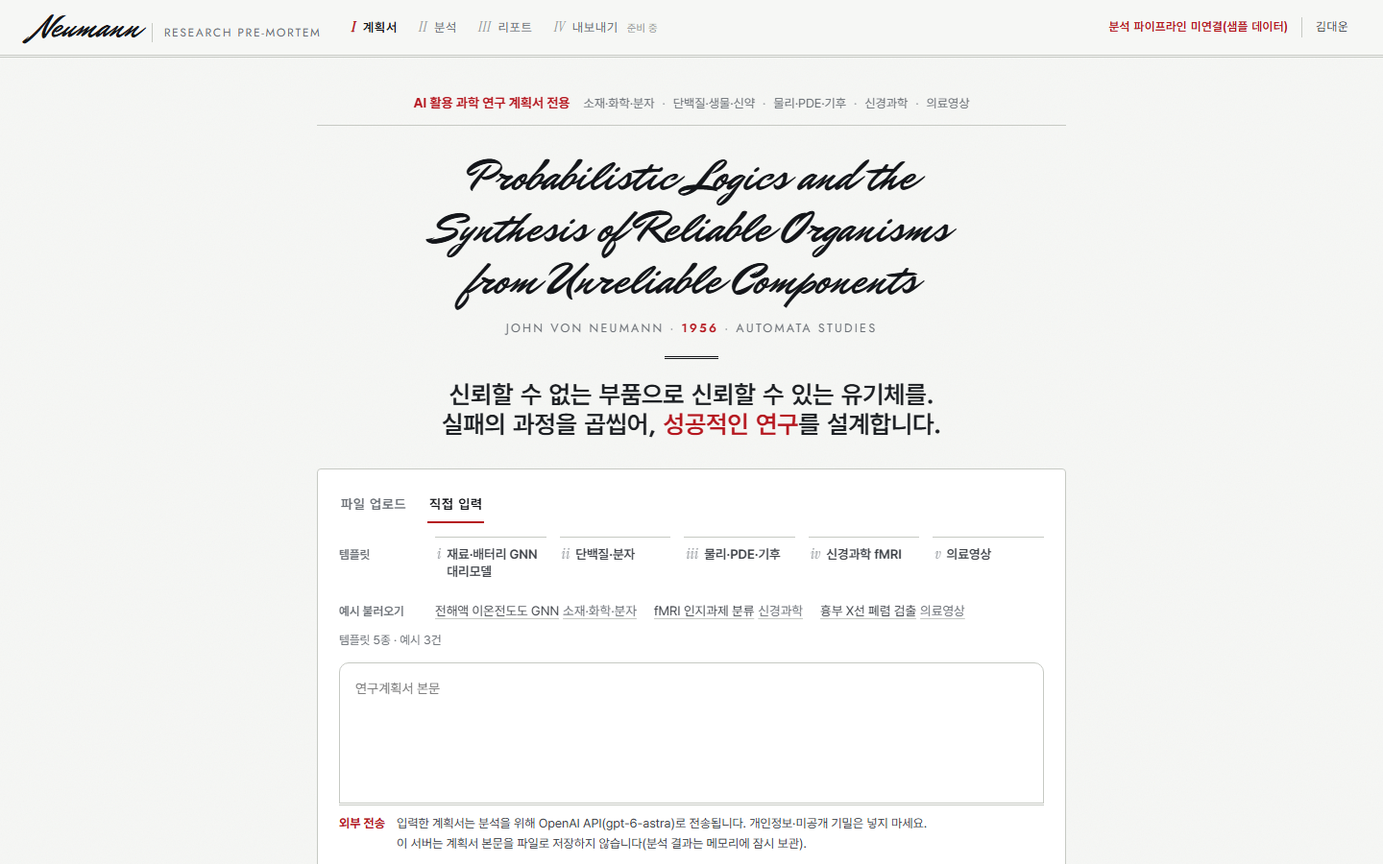
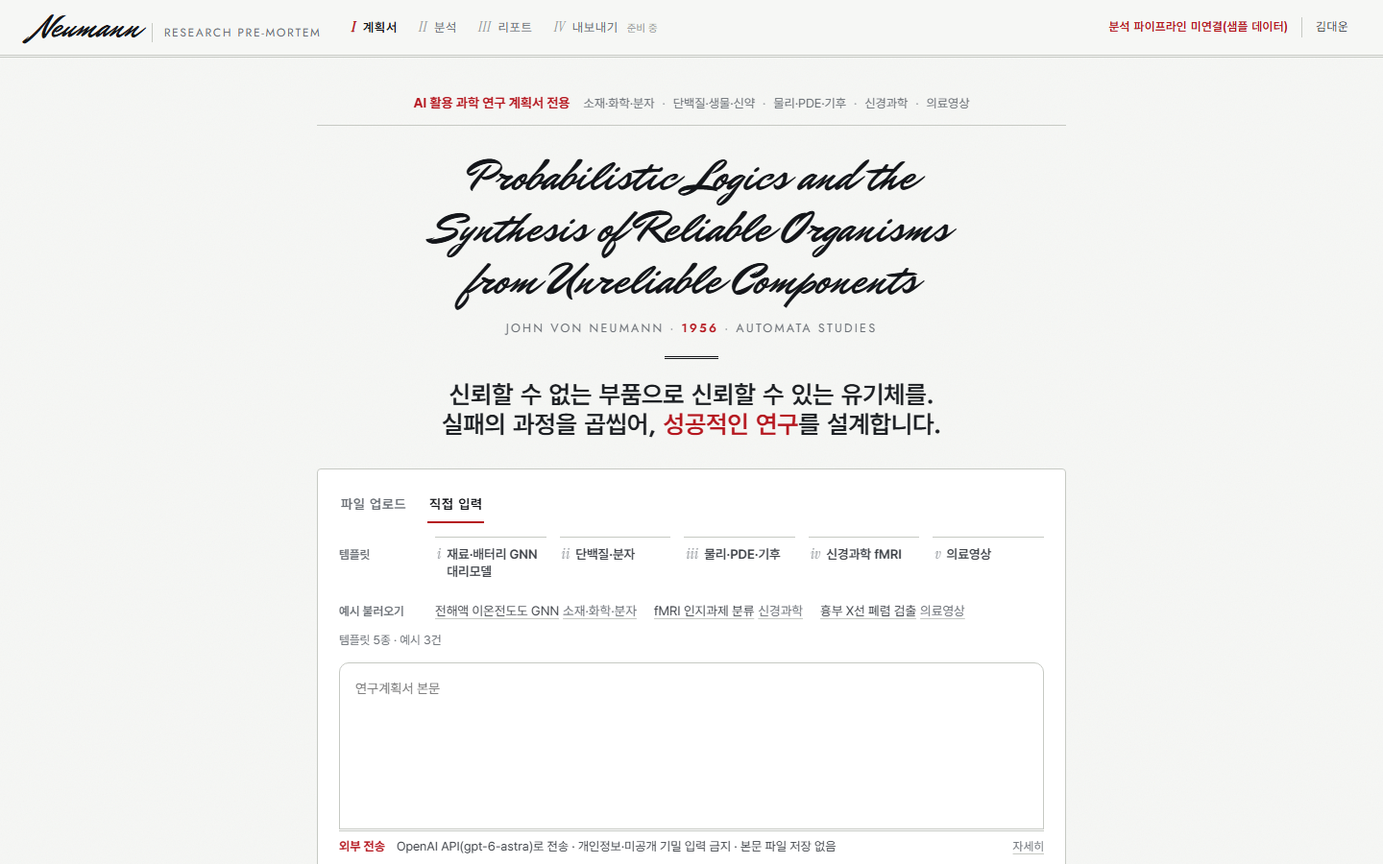
[E4-S06] 후속: 저장 문장 축약(괄호 삭제), E4-L2c 검사는 본문 미저장만, 고지를 한 줄 요약+펼치기로(입력칸 가림 64→37px)
- 저장 문장: "이 서버는 계획서 본문을 파일로 저장하지 않습니다." (메모리 보관 괄호 삭제)
- test_result_file_cache_strips_plan_body: serving.py 결과 파일 캐시가 _strip_plan_body를 거치는지만 확인(E4-L2c 실제 파일로 통과)
- 고지 <details>: 라벨 + 한 줄 요약(세 사실), 펼치면 전문 두 줄. textContent만, 색 토큰
- Playwright 8131: 첫 화면 안(접힘·펼침·업로드), 버튼과 18px, 콘솔 오류 0, 외부 요청 0. 스크린샷 notice/notice_open

verify 통과
builder: claude-opus-5.5

Changed region(s): [[0.25, 0.9333, 0.6875, 0.9956], [0.7188, 0.9644, 0.75, 0.9956]]

diff --git a/src/neumann/webui/index.html b/src/neumann/webui/index.html
@@ -385,10 +385,17 @@
   .fit .by { display: block; color: var(--muted); font-size: 12.5px; margin-top: 4px; }
   .fit.ok { border-top-color: var(--green-t); border-bottom-color: var(--green-t); color: var(--green); }
   .fit.ok b { color: var(--green); }
-  /* ===== E4-S06 입력 전송 고지(SEC-1 S-06). 자연 위치는 실행 버튼 바로 위, 첫 화면에서는 화면 아래에 붙어 보인다(sticky) ===== */
-  .sendnote { position: sticky; bottom: 0; z-index: 2; display: grid; grid-template-columns: auto minmax(0, 1fr); gap: 0 12px; align-items: baseline; margin-top: 16px; padding: 9px 0 10px 0; border-top: 3px double var(--line2); background: var(--card); font-size: 13px; line-height: 1.6; color: var(--text2); }
-  .sendnote b { grid-row: 1 / span 2; font-family: var(--sans); font-weight: 700; color: var(--red); }
-  .sendnote .snl { grid-column: 2; }
+  /* ===== E4-S06 입력 전송 고지(SEC-1 S-06). 자연 위치는 실행 버튼 바로 위, 첫 화면에서는 화면 아래에 붙어 보인다(sticky).
+     입력칸을 덜 가리게 접힌 상태는 한 줄 요약, 펼치면 전문 두 줄 ===== */
+  .sendnote { position: sticky; bottom: 0; z-index: 2; margin-top: 16px; padding: 6px 0 7px 0; border-top: 3px double var(--line2); background: var(--card); font-size: 13px; line-height: 1.6; color: var(--text2); }
+  .sendnote summary { display: flex; align-items: baseline; gap: 12px; cursor: pointer; list-style: none; }
+  .sendnote summary::-webkit-details-marker { display: none; }
+  .sendnote summary b { flex-shrink: 0; font-family: var(--sans); font-weight: 700; color: var(--red); }
+  .sendnote summary .sum { flex: 1; min-width: 0; }
+  .sendnote summary .more { flex-shrink: 0; font-size: 12.5px; color: var(--muted); text-decoration: underline; text-decoration-color: var(--line2); text-underline-offset: 3px; }
+  .sendnote summary:hover .more { color: var(--ink); text-decoration-color: var(--ink); }
+  .sendnote .snl { display: block; }
+  .sendnote .snl:first-of-type { margin-top: 4px; }
 </style>
 </head>
 <body data-view="boot">
@@ -455,7 +462,7 @@
       '<div id="tplArea">' + tplInner() + '</div>' + area +
       (S.inErr ? '<div class="inerr" id="inErr">' + esc(S.inErr) + '</div>' : '') +
       '<div class="fit' + (FIT && FIT.fit === true ? ' ok' : '') + '" id="fitBox" role="status"' + (FIT ? '' : ' hidden') + '>' + fitInner() + '</div>' +
-      '<div class="sendnote" id="sendNote" role="note"></div>' +
+      '<details class="sendnote" id="sendNote"></details>' +
       '<div style="display:flex; align-items:center; justify-content:space-between; margin-top:18px; gap:14px; flex-wrap:wrap;"><span class="sm muted">최종 판단은 연구자에게</span><button class="btn dark lg" id="btnStart" type="button"' + (S.text.trim() ? '' : ' disabled') + '>Pre-mortem 실행 →</button></div></div></div>';
   }
 
@@ -525,18 +532,28 @@
   }
   function showFitness(f) { FIT = normFit(f); var b = $('fitBox'); if (b) { b.innerHTML = fitInner(); b.hidden = !FIT; b.classList.toggle('ok', !!(FIT && FIT.fit === true)); } return FIT; }
   window.NeumannInput = { showFitness: showFitness, clearFitness: function () { return showFitness(null); }, reloadTemplates: loadTemplates };
-  /* 전송 고지(E4-S06, SEC-1 S-06). 직접 입력·파일 업로드 공통. 글은 textContent로만 넣는다. 확인할 수 없는 약속(학습 미사용 등)은 쓰지 않는다 */
+  /* 전송 고지(E4-S06, SEC-1 S-06). 직접 입력·파일 업로드 공통. 글은 textContent로만 넣는다. 확인할 수 없는 약속(학습 미사용 등)은 쓰지 않는다.
+     접힌 상태 = 라벨 + 한 줄 요약(세 사실 모두), 펼치면 전문 두 줄 */
   var SEND_NOTE = {
     label: '외부 전송',
+    summary: 'OpenAI API(gpt-6-astra)로 전송 · 개인정보·미공개 기밀 입력 금지 · 본문 파일 저장 없음',
     lines: ['입력한 계획서는 분석을 위해 OpenAI API(gpt-6-astra)로 전송됩니다. 개인정보·미공개 기밀은 넣지 마세요.',
-            '이 서버는 계획서 본문을 파일로 저장하지 않습니다(분석 결과는 메모리에 잠시 보관).']
+            '이 서버는 계획서 본문을 파일로 저장하지 않습니다.'],
+    more: ['자세히', '접기'],
+    open: false
   };
   function paintSendNote() {
     var box = $('sendNote'); if (!box) return;
     while (box.firstChild) box.removeChild(box.firstChild);
     box.setAttribute('aria-label', SEND_NOTE.label);
-    var b =document.createElement('b'); b.textContent = SEND_NOTE.label; box.appendChild(b);
+    var sm = document.createElement('summary');
+    var b = document.createElement('b'); b.textContent = SEND_NOTE.label; sm.appendChild(b);
+    var su = document.createElement('span'); su.className = 'sum'; su.textContent = SEND_NOTE.summary; sm.appendChild(su);
+    var mo = document.createElement('span'); mo.className = 'more'; mo.textContent = SEND_NOTE.more[SEND_NOTE.open ? 1 : 0]; sm.appendChild(mo);
+    box.appendChild(sm);
     SEND_NOTE.lines.forEach(function (t) { var s = document.createElement('span'); s.className = 'snl'; s.textContent = t; box.appendChild(s); });
+    box.open = SEND_NOTE.open;
+    box.addEventListener('toggle', function () { SEND_NOTE.open = box.open; mo.textContent = SEND_NOTE.more[box.open ? 1 : 0]; });
   }
   function readFile(file) {
     S.inErr = '';

diff --git a/tests/e4/test_notice.py b/tests/e4/test_notice.py
@@ -1,10 +1,11 @@
 """E4-S06 입력 화면 전송 고지(SEC-1 S-06) 정적 검사.
 
 index.html을 글자로 읽어 확인한다(브라우저 없이 기본 pytest에서 돈다).
-- 고지 문구 두 줄이 글자 그대로 있고, 확인할 수 없는 약속(학습 미사용 등)은 없다.
+- 고지 문구(라벨·한 줄 요약·전문 두 줄)가 글자 그대로 있고, 확인할 수 없는 약속(학습 미사용 등)은 없다.
 - 고지 자리(#sendNote)가 입력 카드(#inCard) 안, 실행 버튼(#btnStart) 바로 앞에 있고, 모드별 입력 영역(area) 밖이라
   직접 입력·파일 업로드 두 모드에 같이 나온다.
 - 고지 글은 textContent로만 들어간다(innerHTML·문자열 이어 붙이기 없음). 색은 토큰, 외부 요청 없음.
+- (조건부) 결과를 파일로 캐시하는 서빙 층이 있으면, 그 저장본에서 본문을 떼는지 확인한다("본문 파일 저장 없음"의 근거).
 화면에서 실제로 보이는지(첫 화면 viewport 안)는 ``test_notice_ui.py``(Playwright)가 잰다.
 """
 
@@ -20,12 +21,12 @@ HTML_PATH = ROOT / "src" / "neumann" / "webui" / "index.html"
 SERVING = ROOT / "src" / "neumann" / "api" / "serving.py"
 
 SEND_LINE = "입력한 계획서는 분석을 위해 OpenAI API(gpt-6-astra)로 전송됩니다. 개인정보·미공개 기밀은 넣지 마세요."
-STORE_LINE = "이 서버는 계획서 본문을 파일로 저장하지 않습니다(분석 결과는 메모리에 잠시 보관)."
+STORE_LINE = "이 서버는 계획서 본문을 파일로 저장하지 않습니다."
+SUMMARY = "OpenAI API(gpt-6-astra)로 전송 · 개인정보·미공개 기밀 입력 금지 · 본문 파일 저장 없음"
 LABEL = "외부 전송"
-MEMORY_ONLY = "(분석 결과는 메모리에 잠시 보관)"  # 결과 디스크 캐시가 없을 때만 사실
-# 우리가 직접 확인할 수 없는 약속. 고지에 쓰지 않는다.
+# 우리가 직접 확인할 수 없는 약속, 또는 서빙 층 구현에 따라 거짓이 되는 보관 설명. 고지에 쓰지 않는다.
 UNVERIFIABLE = ("학습에 쓰지", "학습에 사용하지", "학습하지 않", "모델 학습", "학습 미사용", "학습에 이용",
-                "즉시 삭제", "영구 삭제", "암호화", "제3자", "안전하게 보호")
+                "즉시 삭제", "영구 삭제", "암호화", "제3자", "안전하게 보호", "메모리에 잠시 보관", "보관")
 
 
 @pytest.fixture(scope="module")
@@ -53,19 +54,21 @@ def test_notice_text_exact(html: str) -> None:
     block = _send_note_block(html)
     assert f"'{SEND_LINE}'" in block
     assert f"'{STORE_LINE}'" in block
+    assert f"summary: '{SUMMARY}'" in block
     assert f"label: '{LABEL}'" in block
     # 고지 글은 SEND_NOTE 한 곳에만 있다(다른 곳에서 HTML 문자열로 다시 쓰지 않음)
-    assert html.count(SEND_LINE) == 1
-    assert html.count(STORE_LINE) == 1
+    for t in (SEND_LINE, STORE_LINE, SUMMARY):
+        assert html.count(t) == 1, t
 
 
 def test_notice_mentions_facts_only(html: str) -> None:
     block = _send_note_block(html)
     for w in UNVERIFIABLE:
-        assert w not in block, f"확인할 수 없는 문구: {w}"
-    # 전송 대상·모델·금지 대상을 모두 밝힌다
-    for w in ("OpenAI API", "gpt-6-astra", "전송", "개인정보", "미공개 기밀", "파일로 저장하지 않습니다"):
-        assert w in block, f"빠진 요소: {w}"
+        assert w not in block, f"확인할 수 없거나 구현 따라 거짓이 되는 문구: {w}"
+    # 전문과 한 줄 요약이 같은 세 사실(전송 대상·모델, 입력 금지 대상, 본문 파일 미저장)을 모두 밝힌다
+    for w in ("OpenAI API", "gpt-6-astra", "전송", "개인정보", "미공개 기밀", "본문"):
+        assert w in SEND_LINE + STORE_LINE and w in SUMMARY, f"빠진 요소: {w}"
+    assert "파일로 저장하지 않습니다" in STORE_LINE and "파일 저장 없음" in SUMMARY
 
 
 def test_notice_inside_input_card_before_run_button(html: str) -> None:
@@ -86,11 +89,11 @@ def test_notice_inside_input_card_before_run_button(html: str) -> None:
 def test_notice_painted_with_textcontent(html: str) -> None:
     fn = _func(html, "paintSendNote")
     assert "innerHTML" not in fn and "insertAdjacentHTML" not in fn and "outerHTML" not in fn
-    assert "textContent = SEND_NOTE.label" in fn
-    assert "textContent = t" in fn
-    assert "SEND_NOTE.lines.forEach" in fn
-    # 자리 표시 div는 빈 채로 문자열에 들어가고, 글은 렌더 직후 칠한다
-    assert '<div class="sendnote" id="sendNote" role="note"></div>' in html
+    for want in ("textContent = SEND_NOTE.label", "textContent = SEND_NOTE.summary", "textContent = t",
+                 "SEND_NOTE.lines.forEach", "createElement('summary')"):
+        assert want in fn, want
+    # 자리 표시는 빈 채로 문자열에 들어가고, 글은 렌더 직후 칠한다
+    assert '<details class="sendnote" id="sendNote"></details>' in html
     render = _func(html, "render")
     assert "app.innerHTML = renderInput(); paintSendNote();" in render
     # SEND_NOTE가 HTML 문자열에 이어 붙지 않는다
@@ -100,7 +103,7 @@ def test_notice_painted_with_textcontent(html: str) -> None:
 
 def test_notice_style_tokens_and_sticky(html: str) -> None:
     rules = re.findall(r"^\s*\.sendnote[^{]*\{([^}]*)\}", html, re.M)
-    assert len(rules) >= 3
+    assert len(rules) >= 5
     css = " ".join(rules)
     assert not re.search(r"#[0-9a-fA-F]{3,8}\b", css), "색은 :root 토큰만"
     assert "position: sticky" in css and "bottom: 0" in css
@@ -116,19 +119,16 @@ def test_no_external_requests_in_page(html: str) -> None:
     assert not re.search(r"fetch\(\s*['\"](https?:)?//", html)
 
 
-def test_store_line_matches_result_cache() -> None:
-    """결과를 디스크에 캐시하는 서빙 층(E4-L2c)이 들어오면 '메모리에 잠시 보관'은 사실이 아니게 된다.
+def test_result_file_cache_strips_plan_body() -> None:
+    """'본문을 파일로 저장하지 않습니다'의 근거: 결과 파일 캐시(E4-L2c serving.py)가 있으면 저장본에서 본문을 뗀다.
 
-    지금 main(8f77957)에는 serving.py가 없어 건너뛴다. 들어오면 문구를 고칠 때까지 실패한다.
+    지금 main(8f77957)에는 serving.py가 없어 건너뛴다.
     """
     if not SERVING.exists():
-        pytest.skip("serving.py 없음(E4-L2c 미병합): 결과 디스크 캐시 없음")
+        pytest.skip("serving.py 없음(E4-L2c 미병합): 결과 파일 캐시 없음")
     src = SERVING.read_text(encoding="utf-8")
-    if "cache/results" not in src:
-        pytest.skip("serving.py에 결과 디스크 캐시 경로 없음")
-    html = HTML_PATH.read_text(encoding="utf-8")
-    assert MEMORY_ONLY not in html, (
-        "E4-L2c 결과 캐시가 분석 결과(본문 줄 제외)를 data/cache/results/에 파일로 남긴다. "
-        "고지의 '(분석 결과는 메모리에 잠시 보관)'을 사실에 맞게 고칠 것 "
-        "(예: '이 서버는 계획서 본문을 파일로 저장하지 않습니다(분석 결과는 본문 줄을 뺀 채 캐시에 보관).') "
-        "— 이 파일의 STORE_LINE도 같이 바꾼다")
+    if "cache/results" not in src and "write_text" not in src:
+        pytest.skip("serving.py에 결과 파일 쓰기 없음")
+    assert re.search(r"def _strip_plan_body\(", src), "결과 파일 캐시가 본문을 떼는 함수(_strip_plan_body)가 없다"
+    assert re.search(r"[\"']result[\"']\s*:\s*_strip_plan_body\(", src), (
+        "결과 파일 캐시 저장본이 _strip_plan_body를 거치지 않는다 → 고지 '본문을 파일로 저장하지 않습니다'가 거짓이 된다")

diff --git a/tests/e4/test_notice_ui.py b/tests/e4/test_notice_ui.py
@@ -7,7 +7,8 @@
 - 서버는 하위 프로세스(uvicorn ``neumann.api.main:app``, 기본 8131번)로 띄우고 끝나면(실패해도) 종료한다. 8010은 쓰지 않는다.
 - 렌더 완료 DOM 조건(``data-ready``, 템플릿 목록, 헤더 상태, 폰트)을 기다린 뒤 잰다.
 - 콘솔 오류·페이지 오류·실패 요청·외부 도메인 요청이 하나라도 있으면 실패.
-- 스크린샷: ``docs/reports/E4-S06_notice.png``(직접 입력 모드 첫 화면).
+- 스크린샷: ``docs/reports/E4-S06_notice.png``(직접 입력 첫 화면, 고지 접힘 = 한 줄 요약),
+  ``docs/reports/E4-S06_notice_open.png``(같은 화면, 고지 펼침 = 전문 두 줄).
 """
 
 from __future__ import annotations
@@ -32,8 +33,10 @@ FORBIDDEN_PORT = 8010
 VW, VH = 1440, 900
 LOCAL_HOSTS = {"127.0.0.1", "localhost", "::1"}
 SEND_LINE = "입력한 계획서는 분석을 위해 OpenAI API(gpt-6-astra)로 전송됩니다. 개인정보·미공개 기밀은 넣지 마세요."
-STORE_LINE = "이 서버는 계획서 본문을 파일로 저장하지 않습니다(분석 결과는 메모리에 잠시 보관)."
+STORE_LINE = "이 서버는 계획서 본문을 파일로 저장하지 않습니다."
+SUMMARY = "OpenAI API(gpt-6-astra)로 전송 · 개인정보·미공개 기밀 입력 금지 · 본문 파일 저장 없음"
 NEAR_PX = 60  # 스크롤해 버튼이 보일 때, 고지 아래 끝 ~ 실행 버튼 위 끝 거리 상한
+COLLAPSED_MAX_H = 44  # 접힌 고지(한 줄) 높이 상한. 입력칸을 가리는 폭을 줄이려는 것(첫 판 두 줄 64px)
 
 pytestmark = pytest.mark.skipif(os.getenv("NEUMANN_UI_TESTS") != "1", reason="NEUMANN_UI_TESTS=1일 때만(브라우저·서버 필요)")
 
@@ -86,15 +89,24 @@ MEASURE = """() => {
   const cx = r.left + r.width / 2, cy = r.top + r.height / 2;
   const top = document.elementFromPoint(cx, cy);
   const cs = getComputedStyle(n);
+  const sm = n.querySelector('summary'), su = n.querySelector('summary .sum');
+  const ta = document.getElementById('ta'), tr = ta ? ta.getBoundingClientRect() : null;
+  const lh = parseFloat(getComputedStyle(su).lineHeight);
   return {
     box: {x: r.left, y: r.top, w: r.width, h: r.height, bottom: r.bottom, right: r.right},
     btn: {y: br.top, bottom: br.bottom},
     in_card: !!n.closest('#inCard'),
     on_top: !!(top && n.contains(top)),
+    open: n.open,
     text: n.innerText,
     label: n.getAttribute('aria-label'),
+    summary_text: su.textContent,
+    summary_lines: Math.round(su.getBoundingClientRect().height / lh),
+    more_text: n.querySelector('summary .more').textContent,
     spans: Array.from(n.querySelectorAll('.snl')).map(s => s.textContent),
+    spans_shown: Array.from(n.querySelectorAll('.snl')).map(s => s.checkVisibility()),
     has_markup_children: Array.from(n.children).map(c => c.tagName),
+    textarea_covered_px: tr ? Math.max(0, Math.min(tr.bottom, window.innerHeight) - Math.max(r.top, tr.top)) : null,
     visible: cs.visibility !== 'hidden' && cs.display !== 'none' && r.width > 0 && r.height > 0,
     scrollY: window.scrollY,
     mode: document.querySelector('.seg button.on') && document.querySelector('.seg button.on').dataset.mode
@@ -140,6 +152,17 @@ def shoot(base: str, out: Path) -> dict:
         res["text_first_button_in_viewport"] = m["btn"]["bottom"] <= VH
         page.screenshot(path=str(out / f"{PREFIX}_notice.png"))
 
+        # 1b 펼치기: 전문 두 줄이 보이고 여전히 첫 화면 안. 다시 접는다
+        page.click("#sendNote summary")
+        page.wait_for_function("document.getElementById('sendNote').open === true && document.querySelector('#sendNote .more').textContent === '접기'")
+        mo = page.evaluate(MEASURE)
+        res["text_first_open"] = mo
+        res["text_first_open_in_viewport"] = _in_viewport(mo)
+        page.screenshot(path=str(out / f"{PREFIX}_notice_open.png"))
+        page.click("#sendNote summary")
+        page.wait_for_function("document.getElementById('sendNote').open === false && document.querySelector('#sendNote .more').textContent === '자세히'")
+        res["text_first_reclosed"] = page.evaluate(MEASURE)["open"] is False
+
         # 2 실행 버튼이 보이게 내리면 고지는 버튼 줄 바로 위에 놓인다
         page.evaluate("document.getElementById('btnStart').scrollIntoView({block: 'end'})")
         page.wait_for_timeout(150)
@@ -184,19 +207,30 @@ def shoot(base: str, out: Path) -> dict:
 
 def check(res: dict) -> list[str]:
     bad: list[str] = []
-    for key in ("text_first", "file_first", "file_loaded_first", "text_scrolled"):
+    for key in ("text_first", "text_first_open", "file_first", "file_loaded_first", "text_scrolled"):
         m = res[key]
         if m["spans"] != [SEND_LINE, STORE_LINE]:
             bad.append(f"{key}: 고지 문구 다름 {m['spans']}")
+        if m["summary_text"] != SUMMARY or m["label"] != "외부 전송":
+            bad.append(f"{key}: 요약·라벨 다름 {m['summary_text']!r} {m['label']!r}")
         if not m["in_card"]:
             bad.append(f"{key}: 입력 카드 밖")
         if not m["visible"] or not m["on_top"]:
             bad.append(f"{key}: 고지가 보이지 않거나 가려짐")
-        if m["has_markup_children"] != ["B", "SPAN", "SPAN"]:
+        if m["has_markup_children"] != ["SUMMARY", "SPAN", "SPAN"]:
             bad.append(f"{key}: 고지 구조 다름 {m['has_markup_children']}")
+        if key != "text_first_open":  # 기본은 접힘: 한 줄 요약만, 높이 상한
+            if m["open"] or any(m["spans_shown"]) or m["summary_lines"] != 1 or m["box"]["h"] > COLLAPSED_MAX_H:
+                bad.append(f"{key}: 접힌 고지가 한 줄이 아님 open={m['open']} lines={m['summary_lines']} h={m['box']['h']}")
+    mo = res["text_first_open"]
+    if not mo["open"] or mo["spans_shown"] != [True, True] or mo["more_text"] != "접기":
+        bad.append(f"펼치기: 전문이 안 보임 {mo['spans_shown']} {mo['more_text']}")
+    if not res["text_first_reclosed"]:
+        bad.append("다시 접기 실패")
     if res["text_first"]["mode"] != "text" or res["file_first"]["mode"] != "file":
         bad.append("모드 전환 확인 실패")
-    for key in ("text_first_in_viewport", "file_first_in_viewport", "file_loaded_first_in_viewport"):
+    for key in ("text_first_in_viewport", "text_first_open_in_viewport", "file_first_in_viewport",
+                "file_loaded_first_in_viewport"):
         if not res[key]:
             bad.append(f"{key}: 첫 화면(1440×900) 밖")
     for key in ("text_first", "file_first", "file_loaded_first"):

diff --git a/docs/reports/E4-S06.md b/docs/reports/E4-S06.md
@@ -1,6 +1,7 @@
 # E4-S06 — 입력 화면 전송 고지 (SEC-1 S-06 대응)
 
 - 브랜치 `task/E4-S06` (main `8f77957` 기준), 빌더 claude-opus-5.5
+- **현재 문구·모양은 맨 아래 "후속" 절이 기준이다**(저장 문장 괄호 삭제, 고지는 한 줄 요약 + 펼치기). 아래 첫 절들은 첫 커밋 `ad07874` 기록.
 - 근거: `docs/reports/SEC-1.md` S-06("계획서가 OpenAI로 전송된다는 고지와 기밀·개인정보 입력 금지 문구가 화면에 없다")
 
 ## 무엇을 했나
@@ -109,3 +110,53 @@ verify 통과
 - S-06의 나머지(이름·소속·주소 마스킹, 로그에 plan_id·길이만)는 이 과제 범위 밖(E3·E4-L2c).
 - 사전 계산본·정적 배포 화면(E6)에는 입력칸이 없어 고지를 넣지 않았다. 정적 판에 입력 기능이 생기면 같은 고지가 필요하다.
 - 모바일 폭(≤1180px)은 재지 않았다(과제 기준 1440×900만).
+
+## 후속 (조정자 지시: 저장 문장 축약 · E4-L2c 검사 교체 · 입력칸 가림 최소화)
+
+### 무엇을 바꿨나
+
+1. **저장 문장**을 E4-L2c 구현과 상관없이 사실인 문장으로 줄였다: "이 서버는 계획서 본문을 파일로 저장하지 않습니다." 괄호 "(분석 결과는 메모리에 잠시 보관)"은 뺐다. 정적 검사가 "메모리에 잠시 보관"·"보관" 문구를 막는다.
+2. **E4-L2c 연동 검사**를 "본문을 파일로 저장하지 않는다"만 확인하게 바꿨다(`test_result_file_cache_strips_plan_body`): `serving.py`가 있고 결과를 파일로 쓰면, `_strip_plan_body`가 정의돼 있고 저장본 `"result": _strip_plan_body(...)`를 거치는지 본다. 지금 main엔 `serving.py`가 없어 건너뛴다. 실제 E4-L2c 브랜치 `serving.py`를 넣어 돌리면 **통과**(아래 결함 대조 `cache_strip`)라 E4-L2c 병합 때 verify를 깨지 않는다.
+3. **입력칸 가림 최소화**(소유 범위 = 고지 부분만): 고지를 `<details>`로 바꿔 기본은 **한 줄 요약**, 누르면 전문 두 줄을 펼친다. 요약 한 줄에 세 사실(전송 대상·모델, 입력 금지 대상, 본문 파일 미저장)이 다 들어 있다. 입력칸 아래 여백은 입력 영역(소유 밖)을 고쳐야 해서 쓰지 않았다.
+   - 라벨: 외부 전송
+   - 요약: OpenAI API(gpt-6-astra)로 전송 · 개인정보·미공개 기밀 입력 금지 · 본문 파일 저장 없음
+   - 전문 1: 입력한 계획서는 분석을 위해 OpenAI API(gpt-6-astra)로 전송됩니다. 개인정보·미공개 기밀은 넣지 마세요.
+   - 전문 2: 이 서버는 계획서 본문을 파일로 저장하지 않습니다.
+   - 오른쪽 끝에 "자세히"/"접기"(`toggle` 이벤트로 textContent 갱신). 모드 전환·템플릿 선택으로 다시 그려도 펼침 상태를 유지한다(`SEND_NOTE.open`).
+   - 글은 전부 `createElement` + `textContent`(summary 포함), innerHTML 없음. 색 토큰만.
+
+### 측정
+
+```
+$ python tests/e4/test_notice_ui.py --port 8131            # 끝난 뒤 8131 free: True
+exit=0  ok True  bad []
+text_first        y 863.2–900.0  h 36.8  접힘  요약 1줄  전문 [숨김, 숨김]  입력칸 가림 36.8px (첫 판 63.6px)
+text_first_open   y 817.6–900.0  h 82.4  펼침  전문 [보임, 보임]  "접기"  (첫 화면 안) → 다시 접기 true
+text_scrolled     y 797.3–834.1  버튼과 18.0px, 입력칸 가림 0
+file_first        y 798.6–835.4  (업로드 모드, 자연 위치) 버튼과 18.0px
+file_loaded_first y 863.2–900.0  (59줄 미리보기 뒤) 첫 화면 안
+console_errors [] page_errors [] failed_requests [] external_requests []  (요청 10건, 전부 127.0.0.1)
+```
+
+스크린샷: `docs/reports/E4-S06_notice.png`(접힘, 입력칸 아래 끝에 한 줄), `docs/reports/E4-S06_notice_open.png`(펼침, 전문 두 줄). 눈으로 확인함.
+
+```
+$ python -m pytest tests/e4/test_notice.py -q -rs
+6 passed, 1 skipped   (SKIPPED: serving.py 없음(E4-L2c 미병합): 결과 파일 캐시 없음)
+
+결함 대조(스크래치 복사본):
+[none]              6 passed, 1 skipped
+[cache_nostrip]     1 failed   ← serving.py가 결과를 파일로 쓰는데 본문을 안 뗌
+[cache_strip]       7 passed   ← 실제 task/E4-L2c의 serving.py
+[memory]            2 failed   ← 괄호 "(분석 결과는 메모리에 잠시 보관)"을 되살림
+[summary_innerhtml] 1 failed   ← 요약을 innerHTML로
+
+$ python tests/e4/test_templates_ui.py --port 8132 --out <scratchpad>   # E4-L1b 입력 화면 회귀
+exit=0
+```
+
+### 결정
+
+- 펼친 상태에서는 전문이 화면 아래 82px를 덮는다. 사용자가 누른 경우만이라 받아들였다.
+- 요약 문구는 새로 쓴 명사형 한 줄이다(전문 두 문장과 같은 사실만 담음). 전문은 과제 지시문 문장 그대로.
+- "본문 파일 저장 없음"의 근거 범위: main `api/main.py`(파일 쓰기 없음), E4-L2c 결과 캐시(`_strip_plan_body`로 plan.lines·plan_stats.lines 글을 뺀 뒤 저장). 카드·심사평 문장 안에 계획서 문구가 섞여 저장되는지까지는 확인하지 않았다(E4-L2c 병합 뒤 SEC 재점검 대상).
